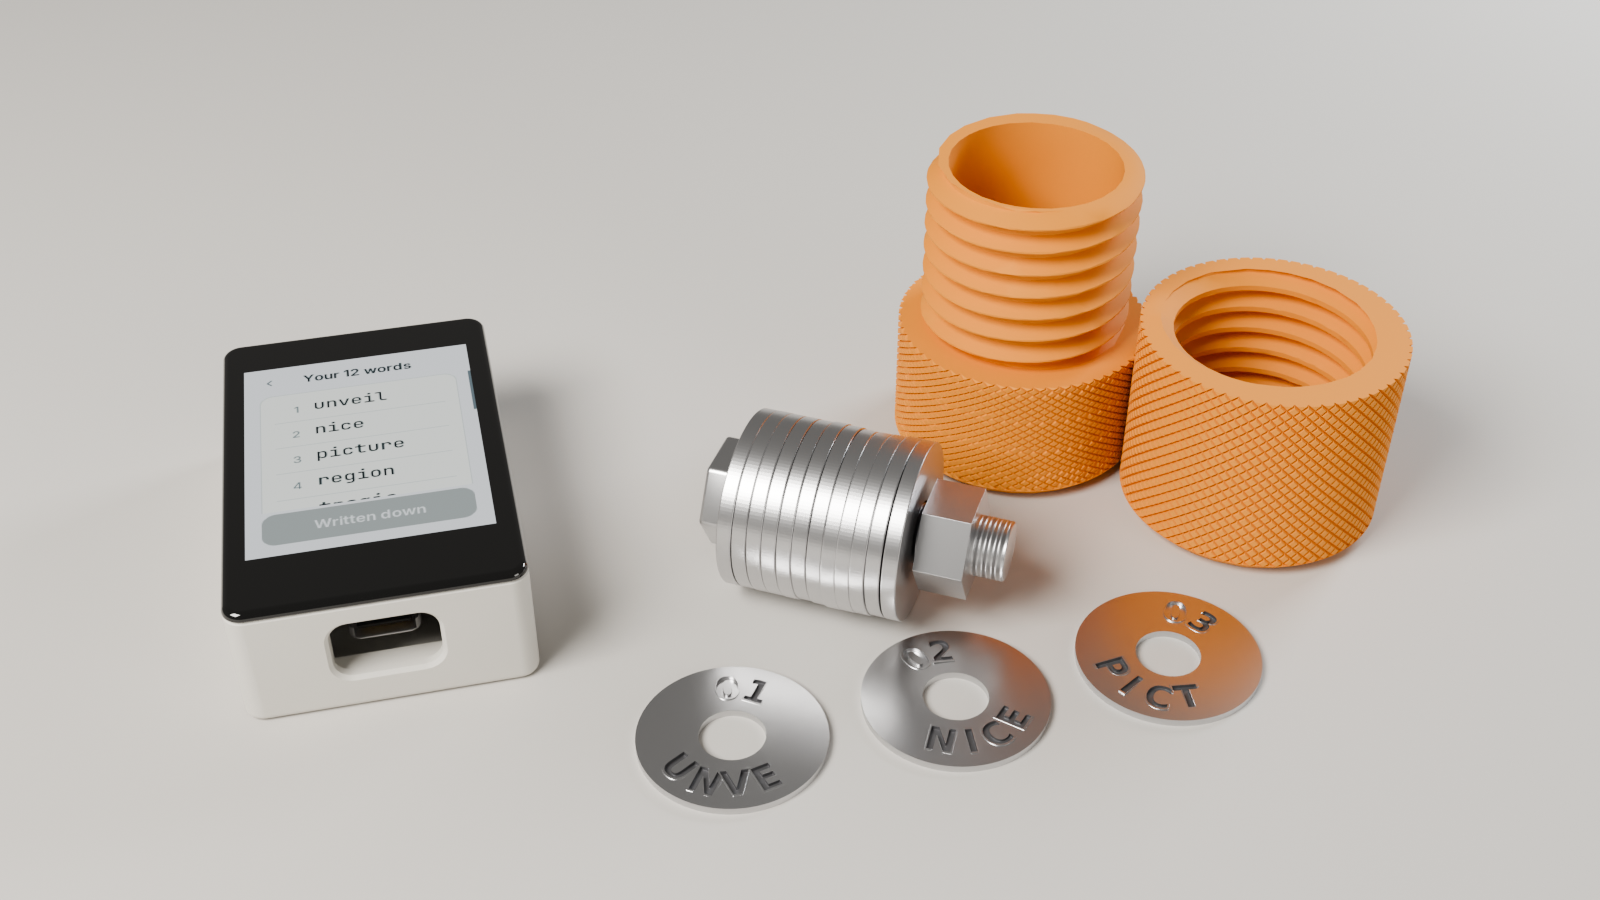
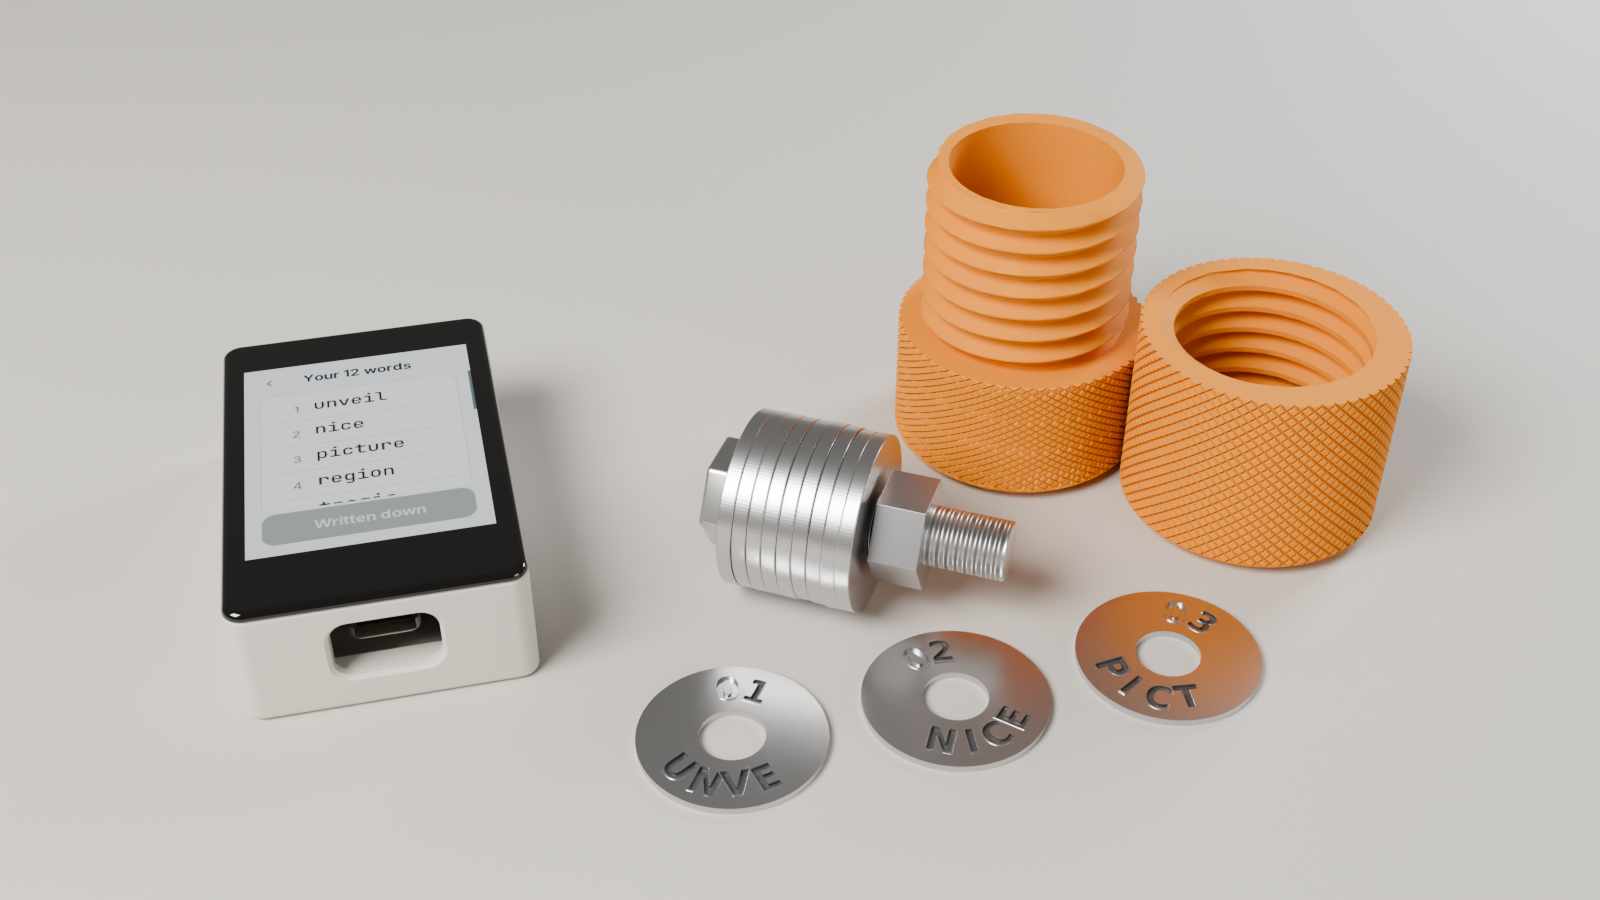
Steel backup: review fixes
Render holds 12 washers (9 on the bolt, 3 loose); the page claims only the
melting point; license notice for the box STLs; render falls back to
Blender's font; plan trimmed to decisions and open tests.

Changed region(s): [[0.5312, 0.4667, 0.6562, 0.7467], [0.5312, 0.7467, 0.5938, 0.84]]

diff --git a/metal/index.html b/metal/index.html
@@ -42,7 +42,6 @@
   p { color: var(--muted); max-width: 62ch; margin: 0 0 12px; }
   b { color: var(--text); font-weight: 600; }
   code { font-family: var(--mono); font-size: .9em; color: var(--text); }
-  .note { background: var(--amber-dim); color: var(--amber); border-radius: 12px; padding: 12px 16px; max-width: 62ch; margin: 16px 0; font-size: 16px; }
   @media (max-width: 640px) { nav a.link.wide { display: none; } h2 { margin-top: 40px; font-size: 24px; } }
 
   .hero { margin: 32px 0 0; border-radius: 16px; overflow: hidden; background: var(--raised); }
@@ -110,10 +109,10 @@
 <main class="wrap">
   <h1>Back up in steel</h1>
   <p class="lede">Twelve steel washers, one word hammered into each, on a bolt.
-     Stainless steel melts at about 1,400&nbsp;°C, hotter than a house fire gets.</p>
+     Stainless steel melts at about 1,400&nbsp;°C; paper burns.</p>
 
   <figure class="hero">
-    <img src="../img/renders/15_metal_stack.png" alt="Render: a Goldfish showing the 12 words, twelve stainless washers on a bolt, and three loose washers stamped with a word each">
+    <img src="../img/renders/15_metal_stack.png" alt="Render: a Goldfish showing the 12 words, nine stainless washers on a bolt, three more stamped with a word each, and the printed box">
   </figure>
 
   <h2>You need</h2>

diff --git a/marketing/renders/metal.py b/marketing/renders/metal.py
@@ -1,5 +1,6 @@
 """Steel backup render for the /metal/ page: stamped stainless washers on an M8
-bolt next to a Goldfish showing the words.
+bolt next to a Goldfish showing the words: 9 on the bolt and 3 loose, so the
+scene holds the 12 a backup needs.
 
 Sizes are the real parts (DIN 9021 M8 washer 8.4 x 24 x 2 mm, M8 x 35 bolt,
 6 mm stamps). The washers carry the words the simulator's screenshot seed shows
@@ -119,7 +120,8 @@ def stamp_text(number, word, seed):
 
     def letter(ch, a, rot):
         cu = bpy.data.curves.new("ch", 'FONT'); cu.body = ch
-        cu.font = bpy.data.fonts.load(FONT, check_existing=True)
+        if os.path.exists(FONT):           # else Blender's own font (zeros less clean)
+            cu.font = bpy.data.fonts.load(FONT, check_existing=True)
         cu.size = STAMP_H / 0.73          # cap height of DejaVu ~0.73 em
         cu.align_x = 'CENTER'; cu.align_y = 'CENTER'
         cu.extrude = 0.04                  # no bevel: DejaVu Bold's overlapping outlines break it
@@ -219,7 +221,7 @@ def stackbox(part, loc, rot, color):
 
 # ---------- the shot ----------
 device("dev_a", BONE, "18_backup_words", (-4.6, 1.6, UP), (0, 0, math.radians(14)))
-stack("stack", 12, (0.6, 1.4, 0), math.radians(-18))
+stack("stack", 9, (0.6, 1.4, 0), math.radians(-18))
 for i, (txt, x, y, r) in enumerate([(("01", "UNVE"), 0.4, -1.9, -8), (("02", "NICE"), 3.2, -1.2, 23), (("03", "PICT"), 6.0, -0.4, -30)]):
     w = washer(f"loose{i}", *txt, seed=i)
     w.location = (x, y, 0.001)

diff --git a/hardware/metal-backup-plan.md b/hardware/metal-backup-plan.md
@@ -1,125 +1,43 @@
-# Metal backup: plan (draft)
+# Steel backup: decisions and open work
 
-Goal: a `/metal/` page next to `/cards/` that shows how to put a 12-word seed
-on stainless washers on a bolt, from parts any hardware store or online shop has.
-Fits Goldfish: the device forgets, the backup is the only copy, so it should
-outlive paper.
+The `/metal/` page (`metal/index.html`) is built. This file keeps why it looks
+the way it does, and what is still untested.
 
-Status: plan only. The stack is our M8 prototype (`~/projects/3d/bitcoin-backup`:
-12 washers on an M8 × 35 bolt, knurled Stackbox case). Nothing is fire-tested by
-us yet; the fire claims are from material data and other people's tests (see
-"Test before we claim").
+## Decisions
 
-## What goes on each washer
+- **12 words only**, like `/cards/`.
+- **Washer: DIN 9021 / ISO 7093-1 M8, 8.4 × 24 × 2 mm, stainless A4 (or A2).**
+  The letters go on the ring between hole and edge, `(OD - ID) / 2`: 7.8 mm
+  here, enough for 6 mm punches. A plain DIN 125 M8 washer leaves 3.8 mm. M8 × 24
+  is also what most DIY steel backups, the Blockmit jigs and the Stackbox use.
+- **Bolt M8 × 35 (DIN 933), one nut (DIN 934).** Our prototype stack: 12 washers
+  = 24 mm, assembled ~40.3 mm long.
+- **Stamp:** number on the top arc, first four letters on the bottom arc, both
+  reading upright: `01` / `UNVE`. Four letters are unique in BIP-39; Goldfish's
+  word entry offers the one matching word after them.
+- **Page:** dead simple, ~130 words: picture, what to buy, three steps, two
+  optional prints. No tables, no heat chart.
+- **Fire copy:** only the melting point (stainless ~1,400 °C). Context, not on
+  the page: the ISO 834-1 standard fire curve reaches ~945 °C after an hour;
+  Lopp's stress tests (~1,100 °C, then quenched) lost no words on washer-and-bolt
+  designs, and stamped letters outlasted engraved ones.
+- **Jig:** [Parametric Washer Stamping Jig](https://www.printables.com/model/855641-parametric-washer-stamping-jig)
+  (ISO 7093 M8, 6 mm punches). The original Blockmit V3 warps, per a remix's author.
+- **Box:** the Knurled Blockmit Stackbox (CC BY-NC-SA), body shortened to the
+  45 mm we printed for 12 washers. `hardware/stackbox_12.scad` squeezes the
+  27 mm knurled band to 18 mm instead of cutting 9 mm out: the knurl only lines
+  up again every 12 mm (or 6 mm with a 2.86° twist), so a 9 mm cut left a seam.
+  No link to boxes for 24–25 washers.
+- **Prices (Nov 2026):** washers ~€0.31/pc (Hornbach, A2), punches €18–100
+  (Gedore to SAM). The page rounds to USD: ~$5 parts, ~$35 punches, ~$40 total.
 
-- First **4 letters** of the word (BIP-39 words are unique by their first 4) plus
-  its **number** (`01`..`12`). The number matters: a loose stack can be put back
-  in any order.
-- One face only, stamped in an arc: `01 ABAN` (~35 mm of the ~51 mm around the
-  middle of the ring). Stamping the back face bends the front one.
-- Passphrase never on the same stack (same rule as the cards page).
+## Open
 
-## Washer size: why not DIN 125
-
-The stamped band is the ring between hole and edge: `(OD - ID) / 2`.
-
-| Washer (M8) | OD × ID × t | Ring | Fits stamps |
-|---|---|---|---|
-| DIN 125 / ISO 7089 | 16 × 8.4 × 1.6 | 3.8 mm | 3 mm only, hard to read |
-| **DIN 9021 / ISO 7093-1** | 24 × 8.4 × 2 | 7.8 mm | **6 mm**: recommended |
-| RS "Kotflügel" A4 | 30 × 8.4 × 1.5 | 10.8 mm | 6 mm, but thin: bends when stamped; doesn't fit the Stackbox |
-
-Measured on the prototype: OD 23.5 mm, ID 8.5 mm (both inside DIN 9021
-tolerance).
-
-Material: **A4 (316)** first choice (better against salt water, burial, and
-scales ~40× slower than 304 at 1000 °C); A2 (304) is fine indoors and is what
-Baumärkte stock. Never zinc-plated steel (OBI's cheap "Karosseriescheibe" is
-zinc-plated), brass, or aluminium.
-
-## Parts list
-
-Same stack as the prototype: 12 washers × 2 mm = 24 mm; with bolt head and
-nut the assembly is ~40.3 mm long, 24 mm across, and fits the Stackbox as is.
-
-| # | Part | Norm | Qty | Price seen (Nov 2026) |
-|---|---|---|---|---|
-| 1 | Washer M8, 8.4 × 24 × 2, A4 (or A2) | DIN 9021 / ISO 7093-1 | 12 | A2: [Hornbach Reyher, 100 pcs 30.50 €](https://www.hornbach.de/p/unterlegscheibe-reyher-din-9021-o-8-4-mm-edelstahl-a2-100-stueck/10316873/) (0.31 €/pc), [Galaxus ~0.19 CHF/pc](https://www.galaxus.ch/en/s4/product/helpmate-karosseriescheibe-84-24-200-mm-edelstahl-a2-din-9021-m8-nuts-washers-61146767); A4: [Würth 0412928](https://eshop.wuerth.de/Washer-with-large-outside-diameter-DIN-9021-A4-stainless-steel-plain-WSH-DIN9021-A4-140HV-D84/0412928.sku/en/US/EUR) (trade, no public price), [eHorst](https://www.ehorst.de/en/Unterlegscheibe-DIN-9021-A4-8-4-mm-Edelstahl-fuer-M-8-1163596.html), eBay |
-| 2 | Hex bolt M8 × 35, full thread, A4 | DIN 933 / ISO 4017 | 1 | [SFS A4 M8×35, ~0.34 CHF/pc per 100](https://www.sfs.ch/CH/en/dl/p/306679); A2 M8×40 [Hornbach 25 pcs](https://www.hornbach.at/p/sechskantschraube-o-schaft-reyher-din-933-m8x40-mm-edelstahl-a2-25-stueck/10510090/) |
-| 3 | Hex nut M8, A4 | DIN 934 / ISO 4032 | 1 | < 1 € |
-| 4 | Letter punches 6 mm, A–Z | — | 1 set | [Gedore 27 pcs 17.70 €](https://www.jh-profishop.de/schlagbuchstaben); [RS PRO 48.35 €](https://uk.rs-online.com/web/p/number-letter-punch-sets/8754742); [SAM ~100 €, rated 60 HRC](https://uk.rs-online.com/web/p/number-letter-punch-sets/2215718) |
-| 5 | Number punches 6 mm, 0–9 | — | 1 set | [Tolsen ~10 $](https://zoro.com/tolsen-steel-punch-stamp-die-set-metal-steel-tool-numbers-0-9-9-piece-set-6mm-25097/i/G011212307) |
-| 6 | Hammer ~500 g, steel block or vise anvil | — | have | |
-| 7 | Stamping jig (holds washer, guides punch) | printed | 1 | free: Blockmit V3, thing:4590734 (prototype used it at −0.30 mm XY comp for 6 mm punches) |
-| 8 | 3–4 spare washers to practise | | | |
-
-Rough total first time: **~40–65 €** (punches are most of it). Every further
-backup: **~5–8 €** in washers, bolt and nut.
-
-No nylon lock nut: nylon melts first. Tighten hard; a drop of thread lock is
-optional (burns off in a fire, but the washers stay on the bolt anyway).
-
-## Heat: numbers and norms
-
-There's no ISO/EN norm for seed backups. What exists, and what we can cite:
-
-| Reference | What it says | Takeaway |
-|---|---|---|
-| [ISO 834-1:2025](https://www.iso.org/standard/83943.html) standard fire curve, `T = 20 + 345·log10(8t + 1)` | ~840 °C at 30 min, ~945 °C at 60 min, ~1100 °C only after ~3 h | Building fire stays well under stainless' melting point |
-| Hydrocarbon curve (EN 1363-2) | 1100 °C within 5 min (fuel, car fires) | Still under 1400 °C |
-| Stainless 304 melting range | ~1400–1420 °C (data sheet) | |
-| Stainless 316 melting range | ~1375–1400 °C; oxidation limit ~870 °C intermittent / 925 °C continuous ([calphad.com](https://calphad.com/aisi_316_stainless_steel/)) | Surface scales above ~900 °C; stamped depth stays |
-| Brass / aluminium / zinc | melt ~900 °C / 660 °C / 420 °C | Why we exclude them |
-| EN 1047-1, UL 72 | Data/paper safes: inside stays < 170 °C (paper) | Paper cards need a safe; steel doesn't |
-
-[Lopp's stress tests](https://blog.lopp.net/metal-bitcoin-seed-storage-stress-tests-round-vi/)
-heat to ~1100 °C (2000 °F) then quench in water. Washer-and-bolt devices
-([Safu Ninja](https://jlopp.github.io/metal-bitcoin-storage-reviews/reviews/safu-ninja),
-Cypherwheel) lost no data; **stamped** words survived where engraved ones
-didn't ([ColdTi](https://jlopp.github.io/metal-bitcoin-storage-reviews/reviews/coldti)).
-His note: washers are a pain to stamp, so the jig is not optional.
-
-## Case
-
-The knurled Stackbox from the prototype (PLA, threaded lid, body shortened
-54 → 45 mm by `short.scad`) already fits this stack.
-
-- Move it into this repo as gcad under `case/` (like the signer case) so the
-  `/parts/` exports pipeline can ship the STL.
-- Say plainly: the printed case is for **hiding and tamper evidence** (a printed
-  seal or a numbered sticker over the lid), not fire. PLA softens at ~60 °C; the
-  steel inside is what survives.
-
-## Site page `/metal/`
-
-Built: `metal/index.html`, shaped like `parts/` (Rethink Sans from Google
-Fonts), linked from `/cards/`, `/start/` and the landing page. No checklist
-sheet: a filled-in one would be a second copy of the seed. Originally planned:
-
-1. Why steel (fire table above, short).
-2. Parts table with norms, so it works in any store: "DIN 9021 M8 A4" is what
-   you ask for.
-3. Stamping how-to: jig, practise washer, one firm blow per letter, `01 ABAN`.
-4. A printable **checklist sheet** (boxes 1–12 with 4 letter slots) to tick off
-   while stamping from the device screen, then shred.
-5. Restore: type the 4 letters into Goldfish's word entry.
-6. Link from `/cards/` and `/start/`.
-
-## Test before we claim
-
-Before any "fireproof" copy (`marketing/README.md` rule):
-
-- [ ] Stamp one full 12-word stack (time it, note what goes wrong).
-- [ ] Torch / kiln to ~1000 °C for 30 min, quench in water, photo, read back.
-- [ ] Vise crush, then read back.
+- [ ] Print the squeezed Stackbox body and check the 12-washer bolt fits.
+- [ ] Stamp a full 12-word stack (time it, note what goes wrong).
+- [ ] Heat to ~1,000 °C for 30 min, quench in water, read it back.
+- [ ] Crush in a vise, read it back.
 - [ ] Restore that seed on the device from the washers alone.
 
-Until then the page says: "stainless steel melts at ~1400 °C, above what a
-house fire reaches" and links the sources, nothing more.
-
-## Open questions
-
-- Word entry already suggests words by prefix (`word_matches` in `ui.cpp`), so 4
-  letters give one match. Check on the device that it's one tap, then say so on
-  the page.
-- Ship the jig STL ourselves or keep pointing to thing:4590734 (license?)?
+Until the heat test is done, the page says nothing about fire beyond the
+melting point.

diff --git a/marketing/README.md b/marketing/README.md
@@ -58,8 +58,8 @@ ONLY=a SAMPLES=64 PCT=50 blender -b -P marketing/renders/scenes.py
 | `out/13_backup_copy.png` | Copying the seed onto the paper SeedQR card, part by part |
 
 `renders/metal.py` renders the steel backup for the `/metal/` page
-(`out/15_metal_stack.png`): the device showing the words, twelve stamped M8
-washers on a bolt, three loose ones, and the printed box with its lid off. Real
+(`out/15_metal_stack.png`): the device showing the words, nine stamped M8
+washers on a bolt and three loose ones (twelve in all), and the printed box with its lid off. Real
 part sizes; the stamped words are the screenshot seed's. `CPU=1` when the GPU is
 busy. The box is the [Knurled Blockmit Stackbox](https://makerworld.com/en/models/196485)
 by Printer_Gobrrr (CC BY-NC-SA), its body shortened to 45 mm for 12 washers

diff --git a/metal/files/README.md b/metal/files/README.md
@@ -1,0 +1,10 @@
+# Stackbox for 12 washers
+
+`stackbox_12_body.stl` and `stackbox_12_lid.stl` are the
+[Knurled Blockmit Stackbox](https://makerworld.com/en/models/196485) by
+Printer_Gobrrr, with the body shortened from 54 to 45 mm for 12 M8 × 24 washers
+on an M8 × 35 bolt (`hardware/stackbox_12.scad`). The lid is unchanged.
+
+License: [CC BY-NC-SA 4.0](https://creativecommons.org/licenses/by-nc-sa/4.0/),
+as the original. This applies to these files and to
+`marketing/renders/assets/stackbox_*.stl`, not to the rest of the repository.
